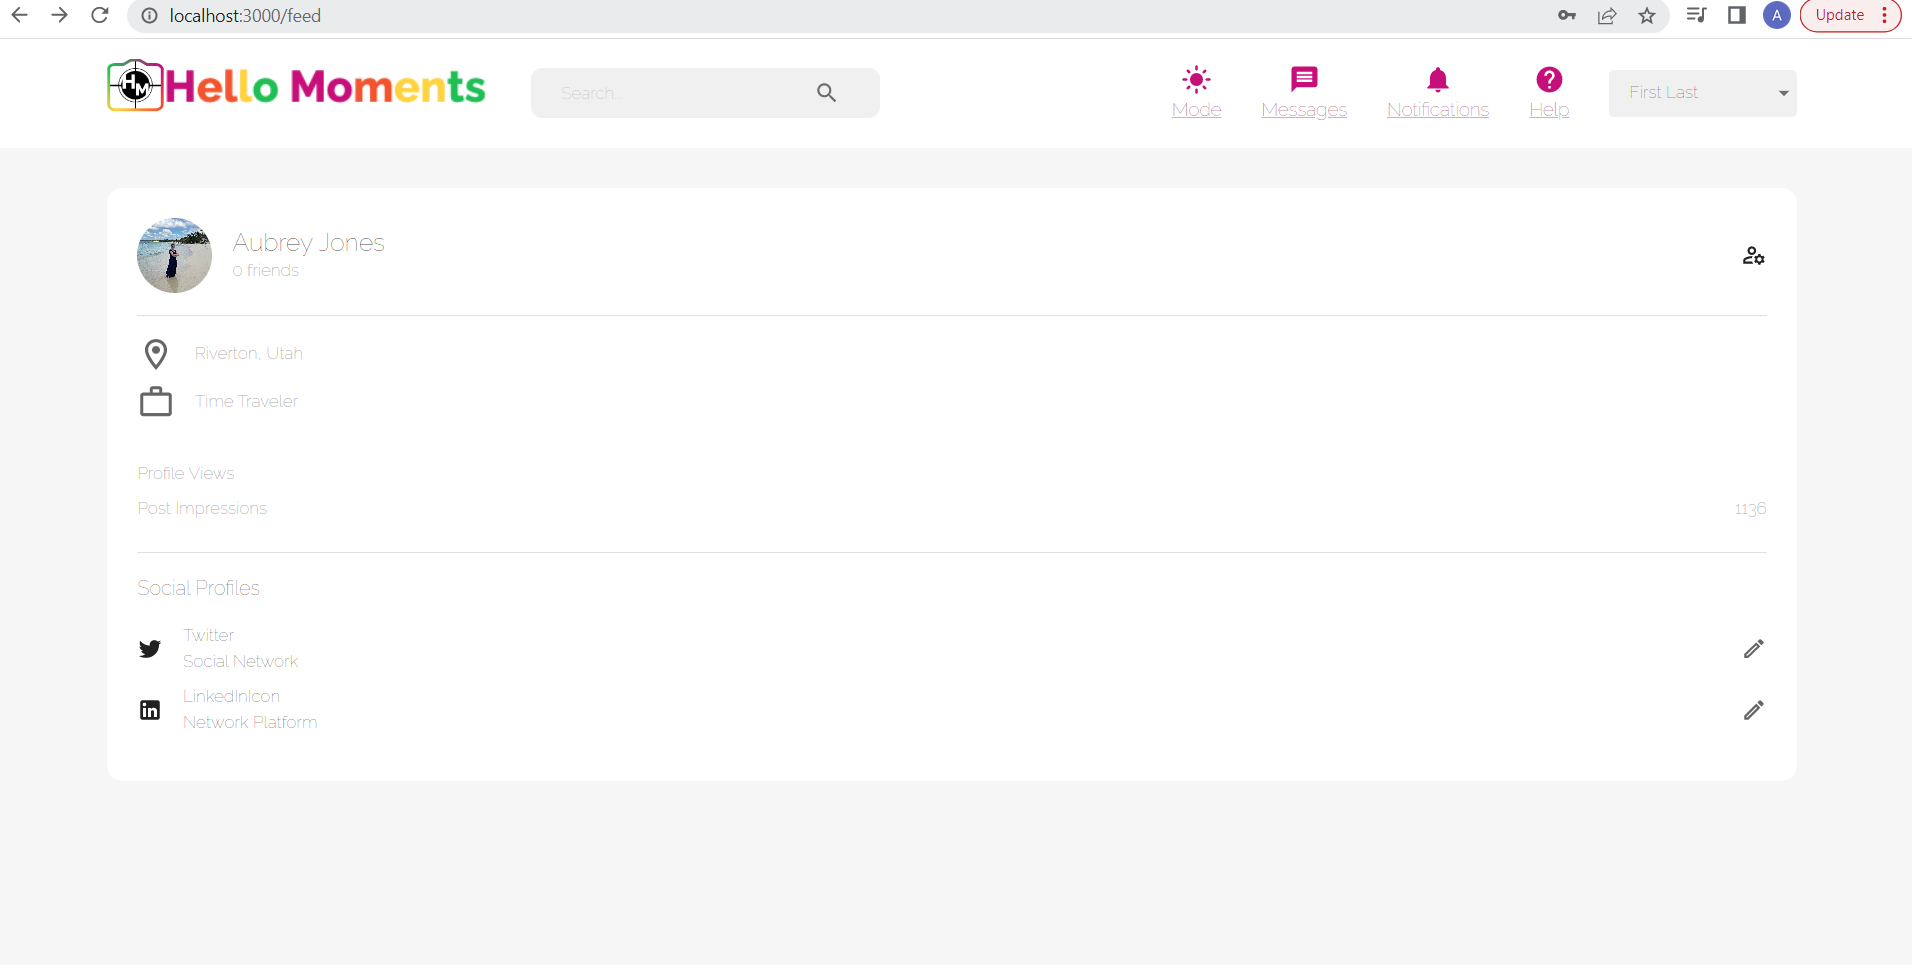
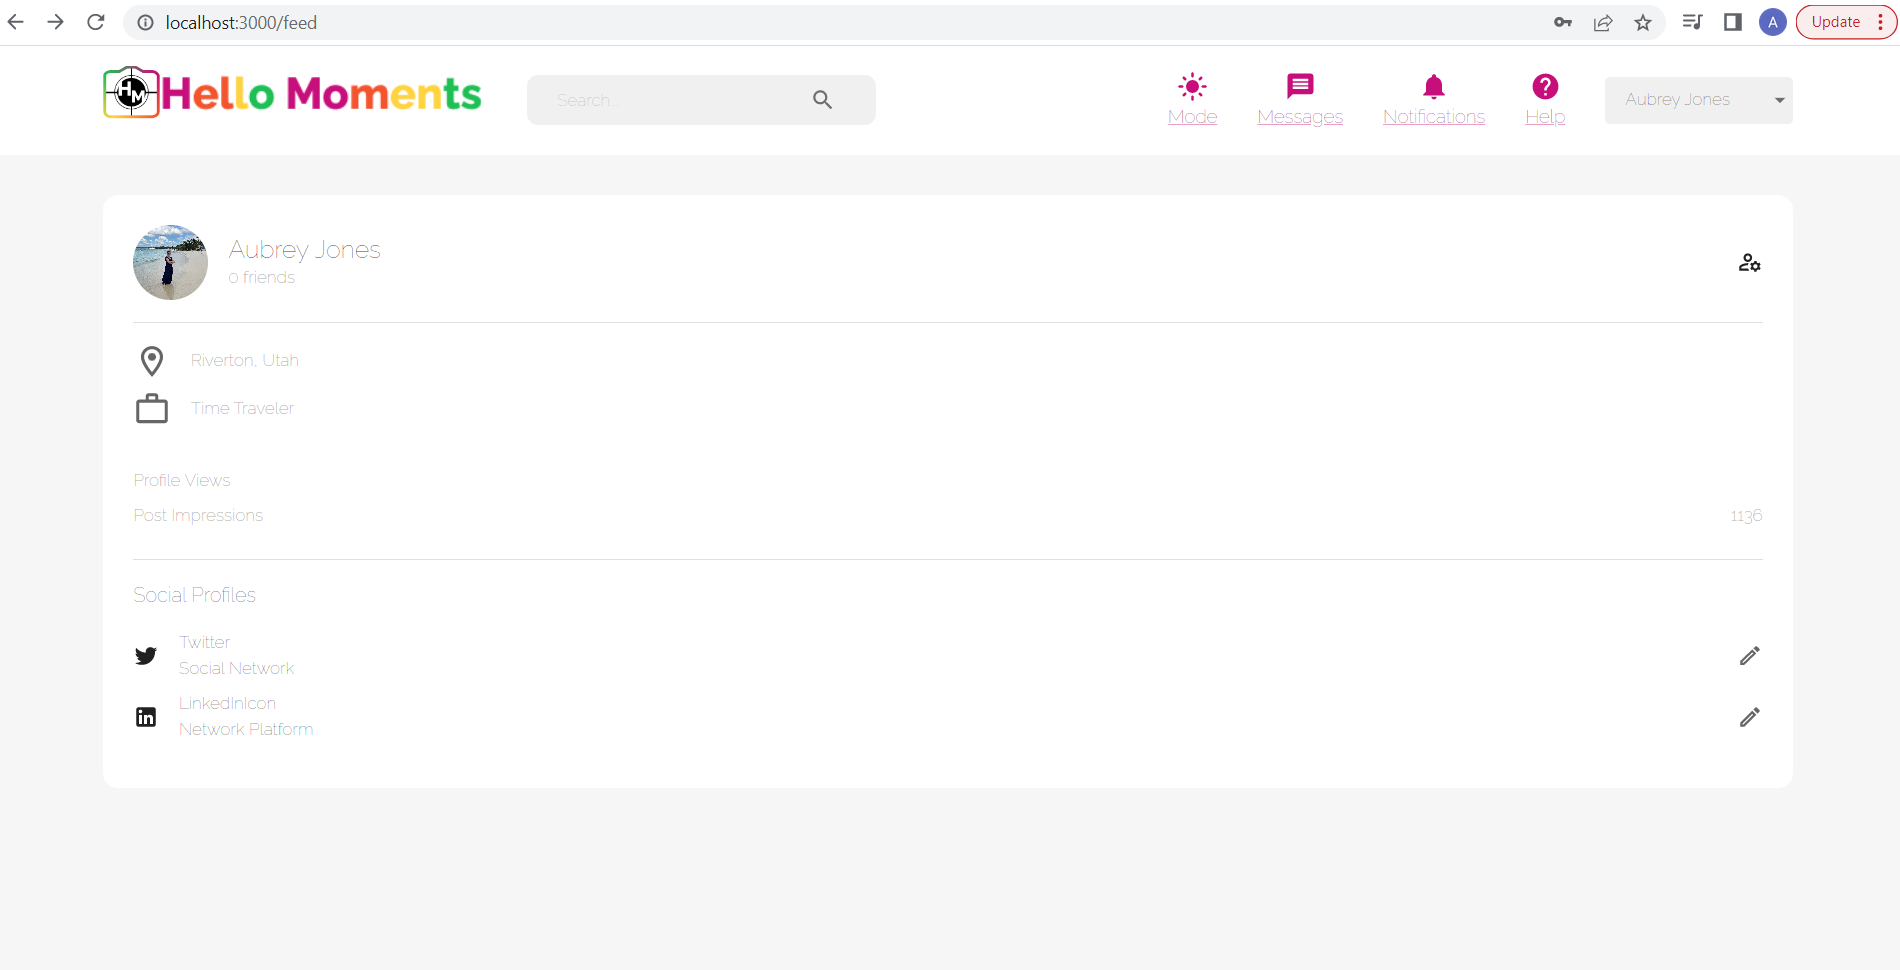
Updated linkedIn and added Harry POtter user

diff --git a/client/src/scenes/widgets/ProfileWidget.jsx b/client/src/scenes/widgets/ProfileWidget.jsx
@@ -153,7 +153,7 @@ const ProfileWidget = ({ userId, picturePath}) => {
                     <LinkedInIcon />
                 <Box>
                     <Typography color={main} fontWeight="500">
-                        LinkedInIcon
+                        LinkedIn
                     </Typography>
                     <Typography color={main}>
                         Network Platform
